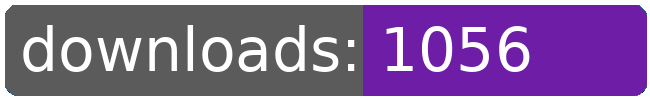
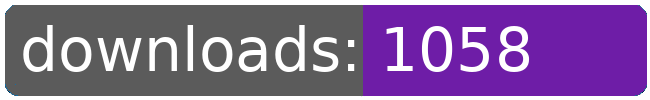
dl log written

Changed region(s): [[0.7692, 0.24, 0.8308, 0.57], [0.7692, 0.57, 0.8, 0.72]]

diff --git a/README.md b/README.md
@@ -21,8 +21,8 @@
 		<td>841</td>
 		<td>899</td>
 		<td>932</td>
-		<td>963</td>
-		<td>+ 31</td>
+		<td>964</td>
+		<td>+ 32</td>
 	</tr>
 	<tr>
 		<td>aberrant.kahet.outfitter</td>
@@ -54,8 +54,8 @@
 		<td>933</td>
 		<td>992</td>
 		<td>1028</td>
-		<td>1056</td>
-		<td>+ 28</td>
+		<td>1058</td>
+		<td>+ 30</td>
 	</tr>
 	<tr>
 		<td>capturingpower</td>
@@ -186,8 +186,8 @@
 		<td></td>
 		<td></td>
 		<td></td>
-		<td>11874</td>
-		<td>382</td>
+		<td>11877</td>
+		<td>385</td>
 	</tr>
 </table>
 </sub></sup>
@@ -212,8 +212,8 @@
 		<td>933</td>
 		<td>992</td>
 		<td>1028</td>
-		<td>1056</td>
-		<td>+ 28</td>
+		<td>1058</td>
+		<td>+ 30</td>
 	</tr>
 	<tr>
 		<td>jumpdrive.extended</td>
@@ -245,8 +245,8 @@
 		<td>841</td>
 		<td>899</td>
 		<td>932</td>
-		<td>963</td>
-		<td>+ 31</td>
+		<td>964</td>
+		<td>+ 32</td>
 	</tr>
 	<tr>
 		<td>purchase.bactrian</td>
@@ -377,8 +377,8 @@
 		<td></td>
 		<td></td>
 		<td></td>
-		<td>11874</td>
-		<td>382</td>
+		<td>11877</td>
+		<td>385</td>
 	</tr>
 </table>
 </sub></sup>
